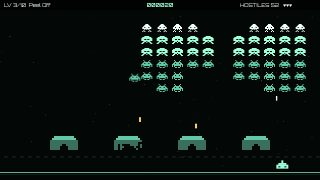
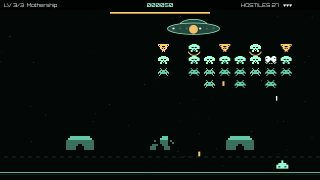
Give Formation three levels and a mothership ending (ei3)
Claude-Session: https://claude.ai/code/session_016R86i3evNakTHXcnyVkEfD

diff --git a/internal/generator/templates/themes/invaders/game.js b/internal/generator/templates/themes/invaders/game.js
@@ -3,10 +3,10 @@
  *
  * A fixed shooter: a formation marches side to side, drops a step at every
  * wall and speeds up as it thins. Destroy all of it (and the mothership, on
- * the boss levels) before it lands. Bunkers erode cell by cell where anything
+ * the finale) before it lands. Bunkers erode cell by cell where anything
  * hits them. Later levels add divers that peel off and swoop, shielded
- * invaders, splitters that burst into loose minis, cloaking, lancers that
- * charge a beam, and falling capsules (rapid, double, shield).
+ * invaders, splitters that burst into loose minis, lancers that charge a
+ * beam, and falling capsules (rapid, double, shield).
  */
 (function () {
     'use strict';
@@ -20,6 +20,7 @@
     var BUNK = { cols: 14, rows: 7, cell: 6, y: 408 };
     var MARCH = [146.83, 130.81, 116.54, 110];                   // D C Bb A: the descending four-note march
     var CAPS = ['rapid', 'double', 'shield'];
+    var BOSS_PTS = 1500;
 
     // hp, score and look per invader kind. 's' is shielded (the first hit only
     // pops the shield), 'x' splits into two minis ('m'), 'l' is a lancer.
@@ -61,9 +62,11 @@
         SPR[k] = [compile(ART[k][0].concat(ART[k][1])), compile(ART[k][0].concat(ART[k][2]))];
     });
 
-    // One entry per level:
+    // One entry per level: a classic block to learn the march; Crossfire,
+    // two counter-marching groups with shields, divers and capsules; and the
+    // Mothership with lancers and splitters in its escort.
     //   map      formation shape, one KIND letter per slot ('.' = empty)
-    //   top      y of the first row (default 84; lower on boss levels)
+    //   top      y of the first row (default 84; lower under the mothership)
     //   split    first row of a second group that marches the other way
     //   lo, hi   march speed in px/s with the formation full / almost gone;
     //            lo is high enough that a player who never shoots is landed on
@@ -74,22 +77,14 @@
     //   caps     true when kills and the saucer may drop capsules
     //   dive     mean seconds between divers; divers: how many may be out
     //   zig      share of bombs that weave
-    //   cloak    true when a wave of invisibility sweeps the rows
     //   lance    mean seconds between lancer beams
     //   boss     mothership: hp, fan (seconds between bolt fans), n (bolts per
     //            fan), minis (seconds between mini launches), lance (seconds
     //            between its own beams once below half hp)
     var LV = [
         { map: ['cccccccccc', 'bbbbbbbbbb', 'bbbbbbbbbb', 'aaaaaaaaaa', 'aaaaaaaaaa'], lo: 36, hi: 120, bomb: 1.5, bombV: 165, maxBombs: 2, bunkers: 4 },
-        { map: ['ccc.....ccc', 'bbbbb.bbbbb', 'bbbbbbbbbbb', 'aaaabbbaaaa', '.aaaaaaaaa.', '...aaaaa...'], lo: 38, hi: 130, bomb: 1.3, bombV: 175, maxBombs: 3, bunkers: 4, caps: true },
-        { map: ['cccc...cccc', 'bbbbb.bbbbb', 'bbbbb.bbbbb', 'aaaaa.aaaaa', 'aaaaa.aaaaa', 'aaa.....aaa'], lo: 38, hi: 135, bomb: 1.25, bombV: 180, maxBombs: 3, bunkers: 4, caps: true, dive: 4.5, divers: 1 },
-        { map: ['...ccccc...', '.bbbbbbbbb.', 'bbbbbbbbbbb', 'aaaaaaaaaaa', '.asasasasa.', '...sssss...'], lo: 40, hi: 140, bomb: 1.3, bombV: 190, maxBombs: 3, bunkers: 4, caps: true, dive: 4.2, divers: 1, zig: 0.25 },
-        { map: ['sbbbbbbbs', 'bbbbbbbbb', 'aaaaaaaaa', 'a.a.a.a.a'], top: 144, lo: 36, hi: 120, bomb: 1.4, bombV: 190, maxBombs: 3, bunkers: 3, caps: true, dive: 5, divers: 1, zig: 0.2, boss: { hp: 60, fan: 3, n: 3 } },
-        { map: ['..c.c.c.c..', '.xbbbxbbbx.', 'bbbbbbbbbbb', 'aaaaaaaaaaa', 'aaaaaaaaaaa', '.xaaaaaaax.'], lo: 40, hi: 145, bomb: 1.45, bombV: 195, maxBombs: 4, bunkers: 4, caps: true, dive: 4.6, divers: 1, zig: 0.25 },
-        { map: ['ccccccccccc', 'bsbsbsbsbsb', 'bbbbbbbbbbb', 'aaxaaxaaxaa', 'aaaaaaaaaaa', 'a.a.a.a.a.a'], split: 3, lo: 36, hi: 140, bomb: 1.05, bombV: 200, maxBombs: 4, bunkers: 4, caps: true, dive: 3.6, divers: 2, zig: 0.3 },
-        { map: ['ccccccccccc', 'bbbbbbbbbbb', '.sbsbsbsbs.', 'aaaaaaaaaaa', 'aaaaaaaaaaa', 'x.a.x.a.x.a'], cloak: true, lo: 40, hi: 150, bomb: 1.35, bombV: 205, maxBombs: 4, bunkers: 2, caps: true, dive: 3.8, divers: 2, zig: 0.3 },
-        { map: ['l.c.l.l.c.l', 'bbsbbbbbsbb', 'bbbbbbbbbbb', 'aaaaaaaaaaa', '.xaasasaax.', '.aa.a.a.aa.'], lo: 42, hi: 155, bomb: 1.15, bombV: 210, maxBombs: 4, bunkers: 3, caps: true, dive: 3.5, divers: 2, zig: 0.35, lance: 5.5 },
-        { map: ['l.s.l.s.l', 'bxbbbbbxb', 'aaaaaaaaa', '.a.a.a.a.'], top: 144, lo: 38, hi: 140, bomb: 1.4, bombV: 200, maxBombs: 3, bunkers: 2, caps: true, dive: 4.5, divers: 2, zig: 0.3, lance: 9, boss: { hp: 70, fan: 3.2, n: 5, minis: 14, lance: 8 } }
+        { map: ['ccc.....ccc', 'bsbsbsbsbsb', 'bbbbbbbbbbb', 'aaaaaaaaaaa', 'aaaaaaaaaaa', '.aaaaaaaaa.'], split: 3, lo: 36, hi: 130, bomb: 1.3, bombV: 180, maxBombs: 3, bunkers: 4, caps: true, dive: 4.5, divers: 1, zig: 0.2 },
+        { map: ['l.s.l.s.l', 'bxbbbbbxb', 'aaaaaaaaa', '.a.a.a.a.'], top: 144, lo: 38, hi: 140, bomb: 1.6, bombV: 195, maxBombs: 2, bunkers: 3, caps: true, dive: 5, divers: 1, zig: 0.2, lance: 9, boss: { hp: 60, fan: 3.4, n: 3, minis: 18, lance: 8 } }
     ];
 
     // ------------------------------------------------------------------
@@ -326,7 +321,7 @@
 
     function wrapFlier(s, e) {
         // Re-enter fading in below the saucer's lane (below the mothership on
-        // a boss level) rather than flying down through the score line.
+        // the finale) rather than flying down through the score line.
         e.y = s.boss ? 122 : 72; e.vy = 60; e.bombed = false; e.crunch = false; e.fade = FADE;
         // A diver flies home to its slot; a mini has no slot and dives again.
         if (e.kind === 'm') { e.vx = 0; e.x = 60 + s.rnd() * (G.W - 120); }
@@ -603,7 +598,7 @@
 
     function bossMinis(s, b) {
         var loose = s.inv.filter(function (e) { return e.kind === 'm'; }).length;
-        if (loose >= 4) return;
+        if (loose >= 2) return;
         splitInvader(s, { x: b.x, y: b.y + 20 }, false);
     }
 
@@ -635,8 +630,8 @@
 
     function killBoss(s) {
         var b = s.boss;
-        G.addScore(200 * G.level);
-        G.popup(b.x, b.y, 200 * G.level, C.alert);
+        G.addScore(BOSS_PTS);
+        G.popup(b.x, b.y, BOSS_PTS, C.alert);
         G.burst(b.x, b.y, { n: 70, color: C.alert, speed: 340, life: 1.1 });
         G.burst(b.x, b.y, { n: 40, color: C.white, speed: 200, life: 0.8 });
         G.sfx('bigboom'); G.shake(12, 0.6); G.flash(C.white, 0.25);
@@ -773,17 +768,11 @@
         });
     }
 
-    // On the cloak level a wave of invisibility sweeps through the rows.
-    function invaderAlpha(s, e) {
-        if (e.fade > 0) return 1 - e.fade / FADE;
-        if (!s.cfg.cloak || e.state !== 'form') return 1;
-        return G.clamp(0.55 + Math.sin(G.t * 1.3 + e.row * 0.9 + e.col * 0.25) * 1.1, 0.07, 1);
-    }
-
     function drawInvaders(s, ctx) {
         s.inv.forEach(function (e) {
             var k = KIND[e.kind];
-            ctx.globalAlpha = invaderAlpha(s, e);
+            // A flier that wrapped round fades back in.
+            ctx.globalAlpha = e.fade > 0 ? 1 - e.fade / FADE : 1;
             drawSprite(ctx, SPR[k.spr][s.frame], e.x, e.y, e.flash > 0 ? C.white : k.color);
             if (e.kind === 's' && e.hp > 1) {
                 ctx.strokeStyle = C.alert; ctx.lineWidth = 3;
@@ -818,12 +807,17 @@
         ctx.globalAlpha = 1;
     }
 
-    function drawBoss(s, ctx) {
-        var b = s.boss, open = coreOpen(b), hit = b.flash > 0;
-        ctx.fillStyle = hit ? C.white : C.line;
+    // The mothership's hull: a dome on a wide saucer.
+    function hull(ctx, x, y, color) {
+        ctx.fillStyle = color;
         ctx.strokeStyle = C.mint; ctx.lineWidth = 2;
-        ctx.beginPath(); ctx.ellipse(b.x, b.y - 6, 42, 18, 0, Math.PI, 0); ctx.fill(); ctx.stroke();
-        ctx.beginPath(); ctx.ellipse(b.x, b.y + 4, 78, 17, 0, 0, Math.PI * 2); ctx.fill(); ctx.stroke();
+        ctx.beginPath(); ctx.ellipse(x, y - 6, 42, 18, 0, Math.PI, 0); ctx.fill(); ctx.stroke();
+        ctx.beginPath(); ctx.ellipse(x, y + 4, 78, 17, 0, 0, Math.PI * 2); ctx.fill(); ctx.stroke();
+    }
+
+    function drawBoss(s, ctx) {
+        var b = s.boss, open = coreOpen(b);
+        hull(ctx, b.x, b.y, b.flash > 0 ? C.white : C.line);
         for (var i = -3; i <= 3; i++) {
             // Running lights chase along the hull.
             ctx.fillStyle = (Math.floor(b.t * 6) + i + 30) % 4 === 0 ? C.white : C.deep;
@@ -914,6 +908,55 @@
         return (on.length ? on.join('+') + '  ' : '') + 'HOSTILES ' + count;
     }
 
+    // ------------------------------------------------------------------
+    // The ending: the mothership's last moments, then its wreck as fireworks
+    // ------------------------------------------------------------------
+
+    var WRECK_X = G.W / 2, WRECK_Y = 330, BLOW = 1.1;
+
+    // Hull plates, each with its own spin and course, laid out once.
+    function shards(e) {
+        if (!e.data.shards) {
+            e.data.shards = [];
+            for (var i = 0; i < 18; i++) {
+                var a = i / 18 * Math.PI * 2 + e.rng() * 0.3, v = 140 + e.rng() * 220;
+                e.data.shards.push({ vx: Math.cos(a) * v, vy: Math.sin(a) * v * 0.7 - 60, spin: (e.rng() - 0.5) * 12, w: 8 + e.rng() * 18 });
+            }
+        }
+        return e.data.shards;
+    }
+
+    function drawWreck(e, ctx) {
+        var t = e.t - BLOW;
+        shards(e).forEach(function (sh, i) {
+            ctx.save();
+            ctx.globalAlpha = Math.max(0, 1 - t / 3);
+            ctx.translate(WRECK_X + sh.vx * t, WRECK_Y + sh.vy * t + 90 * t * t);
+            ctx.rotate(sh.spin * t);
+            ctx.fillStyle = i % 3 ? C.mint : C.alert;
+            ctx.fillRect(-sh.w / 2, -3, sh.w, 6);
+            ctx.restore();
+        });
+        // A shock ring every couple of seconds keeps the blast alive.
+        ctx.lineWidth = 3;
+        for (var k = 0; k < 2; k++) {
+            var f = (t * 0.5 + k / 2) % 1;
+            ctx.globalAlpha = 0.7 * (1 - f);
+            ctx.strokeStyle = k ? C.alert : C.white;
+            ctx.beginPath(); ctx.ellipse(WRECK_X, WRECK_Y, 40 + f * 460, 14 + f * 160, 0, 0, Math.PI * 2); ctx.stroke();
+        }
+        ctx.globalAlpha = 1;
+    }
+
+    // First the crippled ship shudders and flashes white, then it bursts.
+    function drawEnding(e, ctx) {
+        if (e.t >= BLOW) { drawWreck(e, ctx); return; }
+        var shake = e.t * 6, x = WRECK_X + Math.sin(e.t * 60) * shake, flash = Math.floor(e.t * 14) % 2;
+        hull(ctx, x, WRECK_Y, flash ? C.white : C.line);
+        ctx.fillStyle = C.alert;
+        ctx.beginPath(); ctx.arc(x, WRECK_Y + 6, 10 + e.t * 30, 0, Math.PI * 2); ctx.fill();
+    }
+
     G.register('invaders', {
         title: 'FORMATION',
         blurb: 'Destroy the formation before it lands. It marches faster as it thins.',
@@ -923,7 +966,7 @@
             'Capsules: R rapid fire · D double barrel · S shield',
             'Mothership: aim for the core while it glows'
         ],
-        levelNames: ['First Contact', 'Arrowhead', 'Peel Off', 'Phalanx', 'Mothership', 'Mitosis', 'Crossfire', 'Cloak', 'Lancers', 'Armada'],
+        levelNames: ['First Contact', 'Crossfire', 'Mothership'],
         colors: { bg: C.bg, fg: C.white, accent: C.mint, dim: C.dim },
         lives: 3,
         // Sparse on purpose: the march played by the formation is the real
@@ -943,6 +986,12 @@
         // Pad-native: two big direction buttons and FIRE. No auto-fire on a
         // phone: each thumb has one job (steer left, hold FIRE right), and
         // holding fire back is how a player spares a bunker.
-        touch: { a: 'FIRE', hide: ['up', 'down', 'b'] }
+        touch: { a: 'FIRE', hide: ['up', 'down', 'b'] },
+        ending: {
+            title: 'MOTHERSHIP DOWN',
+            text: 'The formation is broken. Earth is quiet tonight.',
+            colors: [C.mint, C.alert, C.white, C.soft],
+            draw: drawEnding
+        }
     });
 })();

diff --git a/docs/games.md b/docs/games.md
@@ -561,11 +561,17 @@ PC-speaker style square-wave sounds and music.
 ### invaders — Formation (fixed shooter)
 A marching formation that speeds up as it thins, bunkers that erode where
 they are hit, a bonus saucer across the top. `← →` move, `SPACE` fire (one or
-two shots on screen). Destroy the formation before it lands. Levels: different
-formation shapes, divers that peel off and swoop from level 3, shielded
-invaders, splitting invaders, capsules (rapid, double, shield), a mothership
-boss at levels 5 and 10. Classic four-note march that speeds up with the
-formation, layered over the sequencer.
+two shots on screen). Destroy the formation before it lands. Levels: 1 *First
+Contact*, the classic block of five rows to learn the march and the bunkers;
+2 *Crossfire*, two groups marching against each other with shielded invaders,
+divers that peel off and swoop, weaving bombs and capsules (rapid, double,
+shield) from kills and the saucer; 3 *Mothership*, the finale: the mothership
+boss fires aimed fans and launches minis, escorted by lancers that charge
+beams and splitters that burst into minis; its core glows open now and then
+for triple damage. The ending blows the mothership apart: the hull shudders,
+flashes and bursts into spinning plates and shock rings under mint and amber
+fireworks. Classic four-note march that speeds up with the formation, layered
+over the sequencer.
 
 ### matrix — Bullet Time (time moves when you move)
 Top-down rooms in green code. Time runs at full speed only while the player
